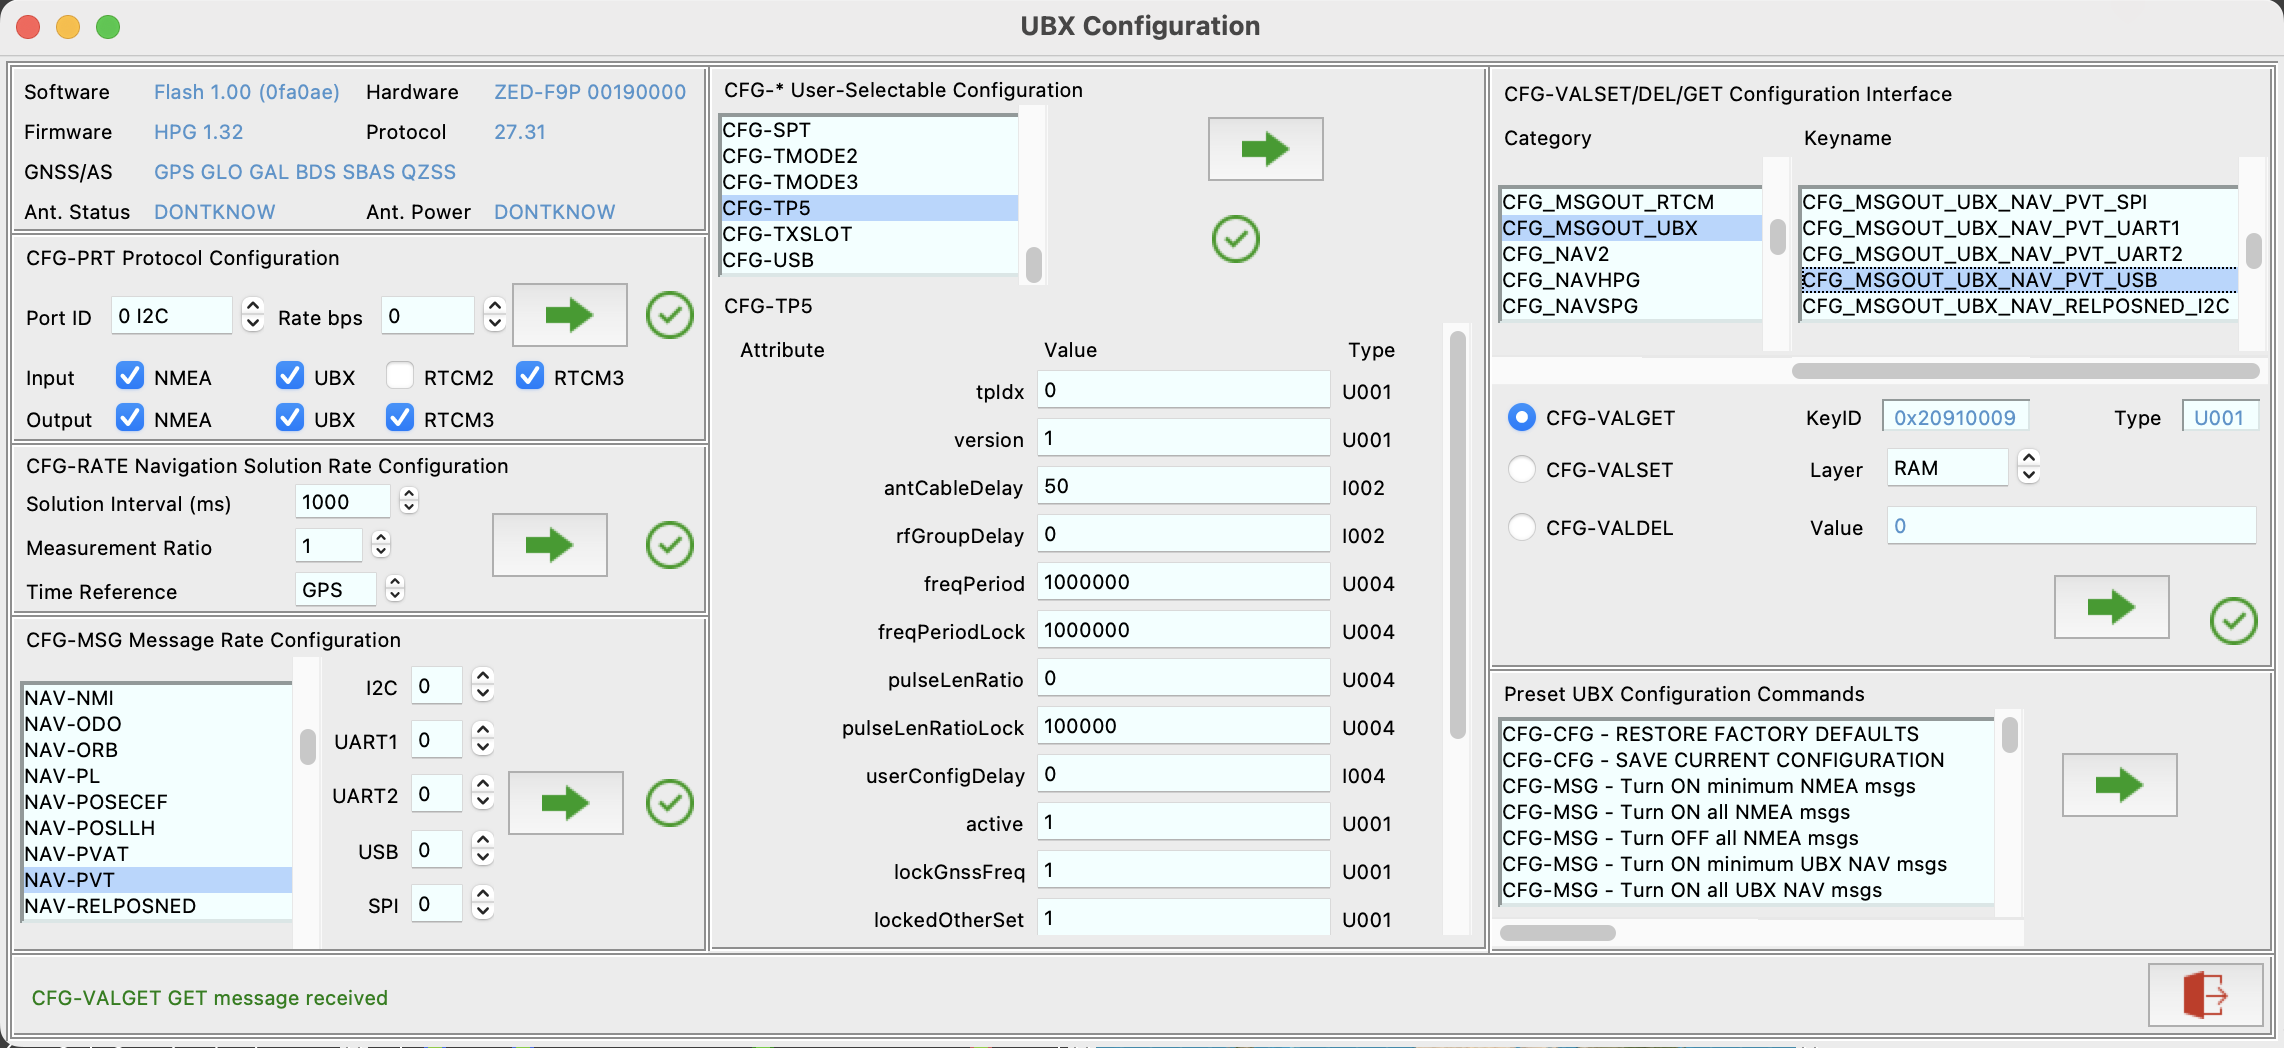
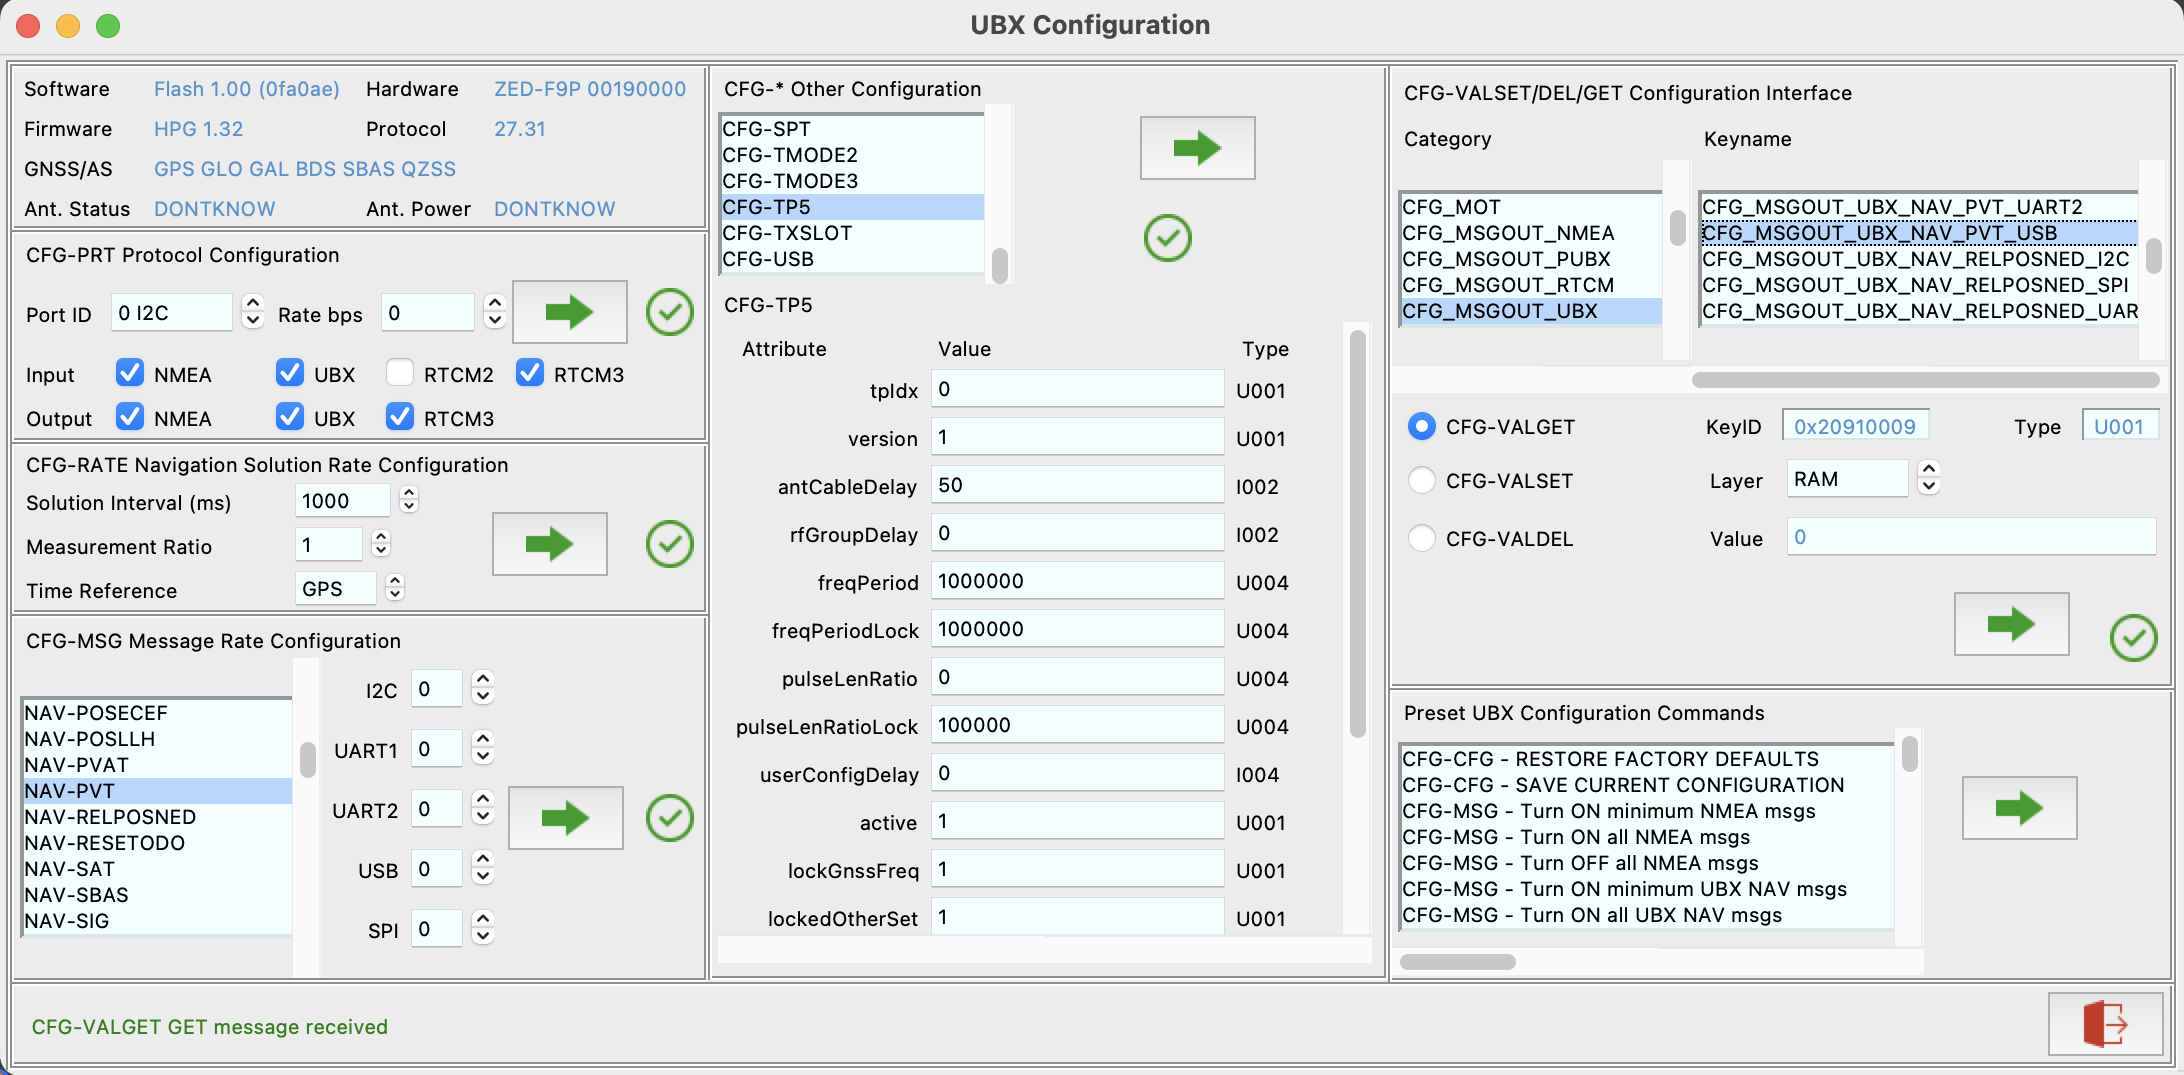
further updates to CFG Other panel

diff --git a/pygpsclient/ubx_dynamic_frame.py b/pygpsclient/ubx_dynamic_frame.py
@@ -71,12 +71,14 @@ SCROLLY = 300
 # following CFG types exluded from selection, mainly because they're deprecated
 # or catered for in other UBX config widgets.
 CFG_EXCLUDED = (
+    "CFG-CFG",
     "CFG-DAT-NUM",
     "CFG-MSG",
     "CFG-NMEAv0",
     "CFG-NMEAvX",
     "CFG-PRT",
     "CFG-RATE",
+    "CFG-RINV",
     "CFG-VALDEL",
     "CFG-VALSET",
 )
@@ -364,20 +366,6 @@ class UBX_Dynamic_Frame(Frame):
                 Label(self._frm_attrs, text=numr).grid(column=1, row=row, sticky=(W))
                 row += 1
 
-            # # add spinbox to allow user to select which item
-            # # within group is being updated
-            # Label(self._frm_attrs, text="Group Index:").grid(
-            #     column=0, row=row, sticky=(E)
-            # )
-            # Spinbox(
-            #     self._frm_attrs,
-            #     from_=0,
-            #     to=numa,
-            #     width=10,
-            #     state=READONLY,
-            #     readonlybackground=ENTCOL,
-            # ).grid(column=1, row=row, sticky=(W))
-            # row += 1
         row = self._add_widgets(msg, attd, row, index)
 
         return row
@@ -419,7 +407,11 @@ class UBX_Dynamic_Frame(Frame):
         if msg is None:  # no poll response available
             self._cfg_atts[nam][0].set(val)
         else:  # set initial value from POLL response
-            self._cfg_atts[nam][0].set(getattr(msg, nam, val))
+            mval = getattr(msg, nam, val)
+            if nam == "bdsTalkerId":  # fudge for default CFG-NMEA bdsTalkerId
+                if mval == b"\x00\x00":
+                    mval = ""
+            self._cfg_atts[nam][0].set(mval)
         Label(self._frm_attrs, text=nam).grid(column=0, row=row, sticky=(E))
         Entry(
             self._frm_attrs,
@@ -482,14 +474,14 @@ class UBX_Dynamic_Frame(Frame):
 
     def _get_val(self, ent: StringVar, att: str):
         """
-        Convert Entry field to appropriate value.
+        Convert Entry field to appropriate value type.
 
         :param StringVar ent: entry string variable
         :param str att: attribute type e.g. 'U004'
         """
 
         val = ent.get()
-        if atttyp(att) in ("E", "I", "L", "U", "X"):  # integer
+        if atttyp(att) in ("E", "I", "L", "U"):  # integer
             if val.find(".") != -1:  # ignore scaling decimals
                 val = val[0 : val.find(".")]
             if val[0:2] == "0b":
@@ -499,6 +491,8 @@ class UBX_Dynamic_Frame(Frame):
             else:
                 mod = 10
             val = int(val, mod)
+        elif atttyp(att) in ("C", "X"):  # bytes
+            val = bytes(val, "utf-8")
         elif atttyp(att) == "R":  # float
             val = float(val)
 

diff --git a/README.md b/README.md
@@ -56,7 +56,7 @@ This is an independent project and we have no affiliation whatsoever with u-blox
 [MapQuest API Key](https://developer.mapquest.com/user/login/sign-up)*).
 1. Data logging in parsed, binary, hexadecimal string and tabulated hexadecimal formats (NB. only binary datalogs can be re-read by PyGPSClient's parser).
 1. Track recording in GPX format.
-1. UBX Configuration Dialog, with the ability to send a variety of UBX configuration commands to u-blox GNSS devices. This includes the facility to add **user-defined commands or command sequences** - see instructions under [user-defined presets](#userdefined) below. While not intended to be a direct replacement, the application supports much of the UBX configuration functionality in u-blox's Windows-only [u-center &copy;](https://www.u-blox.com/en/product/u-center) tool.
+1. UBX Configuration Dialog, with the ability to send a variety of UBX CFG configuration commands to u-blox GNSS devices. This includes the facility to add **user-defined commands or command sequences** - see instructions under [user-defined presets](#userdefined) below. While not intended to be a direct replacement, the application supports much of the UBX configuration functionality in u-blox's Windows-only [u-center &copy;](https://www.u-blox.com/en/product/u-center) tool.
 1. [NTRIP](https://en.wikipedia.org/wiki/Networked_Transport_of_RTCM_via_Internet_Protocol) Client ([differential GPS enhancement](https://en.wikipedia.org/wiki/Differential_GPS)) facility with the ability to connect to a specified NTRIP server (caster), parse the incoming RTCM3 data and feed this data to a compatible GNSS device (*requires an Internet connection and access to a suitable NTRIP caster*).
 1. [Socket Server / NTRIP Caster](#socketserver)  with two modes of operation: (a) open, unauthenticated Socket Server or (b) NTRIP Caster.
 
@@ -95,13 +95,13 @@ This is an independent project and we have no affiliation whatsoever with u-blox
 
 ![ubxconfig widget screenshot](/images/ubxconfig_widget.png)
 
-The UBX Configuration Dialog currently supports the following UBX configuration 'widgets':
-1. Version widget shows current device hardware/firmware versions (*via MON-VER and MON-HW polls*).
-1. Protocol Configuration widget (CFG-PRT) sets baud rate and inbound/outbound protocols across all available ports.
-1. Solution Rate widget (CFG-RATE) sets navigation solution interval in ms (e.g. 1000 = 1/second) and measurement ratio (ratio between the number of measurements and the number of navigation solutions, e.g. 5 = five measurements per navigation solution).
-1. For each of the widgets above, clicking anywhere in the widget background will refresh the displayed information with the current configuration.
-1. Message Rate widget (CFG-MSG) sets message rates per port for UBX and NMEA messages. Message rate is relative to navigation solution frequency e.g. a message rate of '4' means 'every 4th navigation solution'.
-1. **WORK-IN-PROGRESS** User-selectable configuration widget (CFG-*) allows user to select from a range of CFG- configuration commands. When a CFG command is selected, a POLL is sent to the device to retrieve the current settings. Integer values can be entered in integer, binary (`0b..`) or hex (`0x..`) formats.
+The UBX Configuration Dialog currently supports the following UBX configuration panels:
+1. Version panel shows current device hardware/firmware versions (*via MON-VER and MON-HW polls*).
+1. Protocol Configuration panel (CFG-PRT) sets baud rate and inbound/outbound protocols across all available ports.
+1. Solution Rate panel (CFG-RATE) sets navigation solution interval in ms (e.g. 1000 = 1/second) and measurement ratio (ratio between the number of measurements and the number of navigation solutions, e.g. 5 = five measurements per navigation solution).
+1. For each of the panels above, clicking anywhere in the widget background will refresh the displayed information with the current configuration.
+1. Message Rate panel (CFG-MSG) sets message rates per port for UBX and NMEA messages. Message rate is relative to navigation solution frequency e.g. a message rate of '4' means 'every 4th navigation solution'.
+1. Other configuration panel (CFG-*) providing structured updates for a range of legacy CFG- configuration commands for pre-Generation 9+ devices.
 1. Configuration Interface widget (CFG-VALSET, CFG-VALDEL and CFG-VALGET) queries and sets configuration for [Generation 9+ devices](https://github.com/semuconsulting/pyubx2#configinterface) e.g. NEO-M9, ZED-F9P, etc.
 1. Preset Commands widget supports a variety of preset and user-defined commands - see [user defined presets](#userdefined)
 

diff --git a/RELEASE_NOTES.md b/RELEASE_NOTES.md
@@ -4,10 +4,10 @@
 
 ENHANCEMENTS:
 
-1. New CFG-* Other Configuration command widget added to UBX Configuration panel. This allows users to mody the device configuration using a range of legacy CFG commands. **NB:** For Generation 9+ devices, legacy CFG commands are now deprecated in favour of the CFG_VALGET/SET/DEL Configuration Interface commands.
-2. When a CFG command is selected from the CFG-* listbox, a POLL request is sent to the device to retrieve the current settings; these are used to populate a series of dynamically generated Entry widgets. The user can then amend the values as required and send the updated set of values as a SET message to the device. After sending, the current values will be polled again to confirm the update has taken place. **NB:** this mechanism is dependent on receiving timely POLL responses. Note caveats in README re. optimising POLL response performance.
-3. For the time being, there are a view constraints with regard to updating certain variable length groups, but these will hopefully be addressed in a future update as and when time permits. The `pyubx2` library which underpins`PyGPSClient` fully supports *ALL* CFG-* commands via suitable scripts.
-4. The new widget can be enabled or disabled using the `ENABLE_CFG_OTHER` boolean in `globals.py`.
+1. New CFG-* Other Configuration command panel added to UBX Configuration panel. Provides structured inputs for a range of legacy CFG commands. **NB:** For Generation 9+ devices, legacy CFG commands are deprecated in favour of the CFG-VALGET/SET/DEL Configuration Interface commands in the adjacent panel.
+2. When a legacy CFG command is selected from the CFG-* listbox, a POLL request is sent to the device to retrieve the current settings; these are then used to populate a series of dynamically generated Entry widgets. The user can amend the values as required and send the updated set of values as a SET message to the device. After sending, the current values will be polled again to confirm the update has taken place. **NB:** this mechanism is dependent on receiving timely POLL responses. Note caveats in README re. optimising POLL response performance.
+3. For the time being, there are a few constraints with regard to updating certain CFG types, but these will hopefully be addressed in a future update as and when time permits. The `pyubx2` library which underpins`PyGPSClient` fully supports *ALL* CFG-* commands.
+4. The new panel can be enabled or disabled using the `ENABLE_CFG_OTHER` boolean in `globals.py`.
 
 ### RELEASE v1.3.7
 
